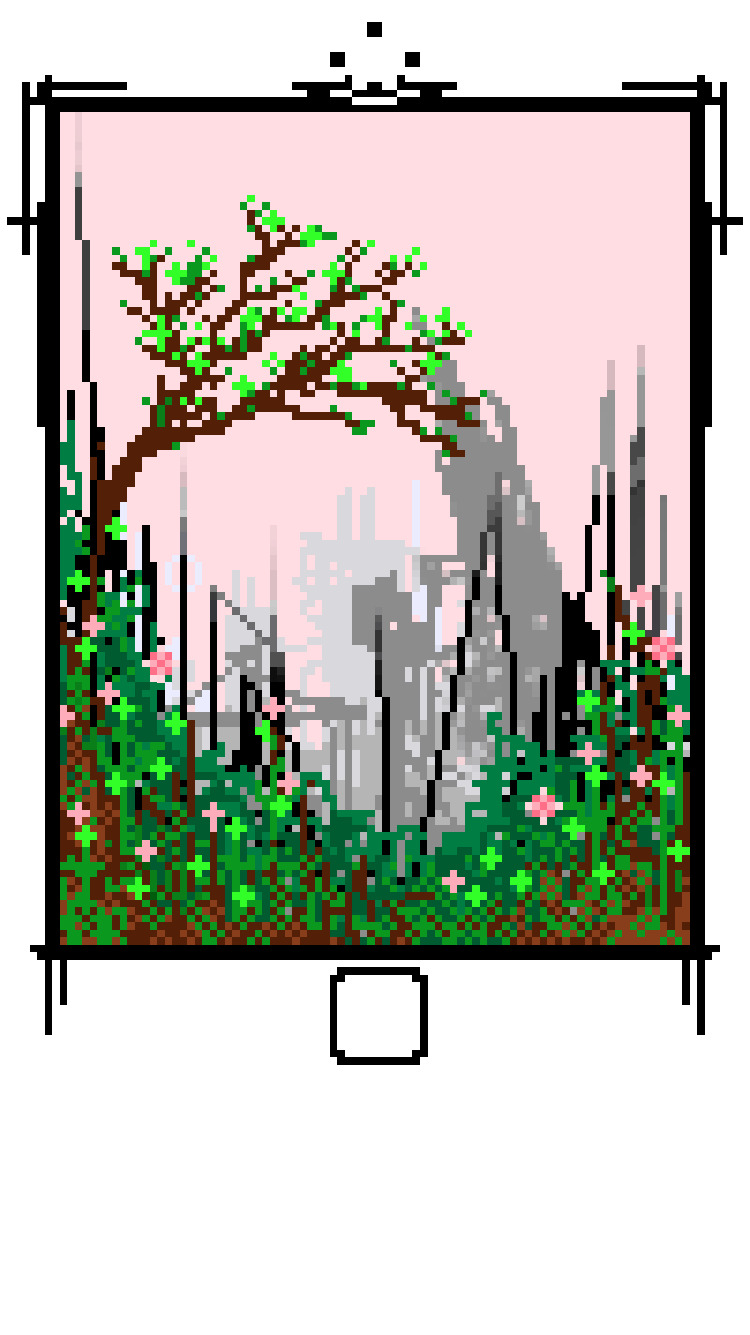
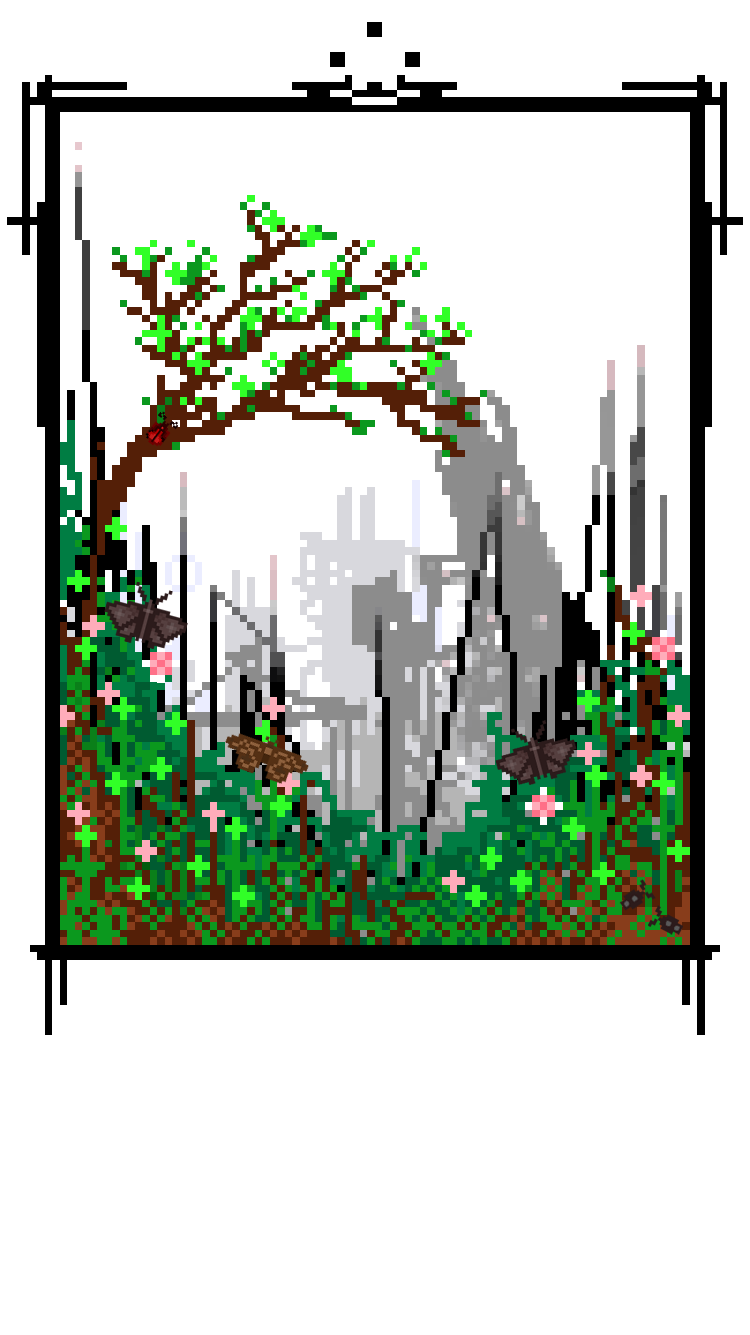
its readyyy

diff --git a/src/views/example.vue b/src/views/example.vue
@@ -32,22 +32,74 @@ export default {
     ville3.src = require("../assets/3_COLLAPSE.png");
 
     var ville4 = new Image();
-    ville4.src = require("../assets/4_CHAOS.png")
+    ville4.src = require("../assets/4_CHAOS.png");
+
+    var ville5 = new Image();
+    ville5.src = require("../assets/5_NOISE.png");
+
+    var ville6 = new Image();
+    ville6.src = require("../assets/6_SENTIER.png");
+
+    var ville7 = new Image();
+    ville7.src = require("../assets/7_RENAISSANCE.png");
+
+    var ville8 = new Image();
+    ville8.src = require("../assets/8_VIE.png");
+
+    var ville9 = new Image();
+    ville9.src = require("../assets/9_ESCARGOT.png");
+
+    var ville10 = new Image();
+    ville10.src = require("../assets/10_EVEIL.png");
+
+    var ville11 = new Image();
+    ville11.src = require("../assets/11_BOURGEON.png");
+
+    var ville12 = new Image();
+    ville12.src = require("../assets/12_DOUCEUR.png");
+
+    var ville13 = new Image();
+    ville13.src = require("../assets/13_pluie.gif");
 
     return {
       ville1: ville1,
       ville2: ville2,
       ville3:  ville3,
       ville4: ville4,
+      ville5: ville5,
+      ville6: ville6,
+      ville7: ville7,
+      ville8: ville8,
+      ville9: ville9,
+      ville10: ville10,
+      ville11: ville11,
+      ville12: ville12,
+      ville13: ville13,
       count: 0,// -1
       motList : [
-        "Incohérence",
-        "Deux mots",
-        "Trois mots",
+        "Evolution",
+        "Progress",
+        "Development",
+        "Noise",
+        "Chaos",
+        "Collapse",
+        "Griseville",
+        "Renaissance",
+        "Infected",
+        "Eveil",
+        "Awakening",
+        "首都",
+        "مدينة الأشباح",
+        "город",
+        "Plantae",
+        "Cells",
+        "Vegetal Apogy",
+        "Deforestation",
+
       ],
       mot: "Ruin",
-      image: ""
-    };
+      image: "",
+    }
   },
   mounted() {
     // this.tick(1)
@@ -66,13 +118,31 @@ export default {
         this.image = this.ville3.src;
       } else if (this.count < 308) {
         this.image = this.ville4.src;
+      } else if (this.count < 385 ) {
+        this.image = this.ville5.src;
+      } else if (this.count < 462) {
+        this.image = this.ville6.src
+      } else if (this.count < 539) {
+        this.image = this.ville7.src
+      } else if (this.count < 616) {
+        this.image = this.ville8.src
+      } else if (this.count < 693) {
+        this.image = this.ville9.src
+      } else if (this.count < 770) {
+        this.image = this.ville10.src
+      } else if (this.count < 847) {
+        this.image = this.ville11.src
+      } else if (this.count < 924) {
+        this.image = this.ville12.src
+      } else if (this.count < 1001) {
+        this.image = this.ville13.src
       }
       this.count += x;
       this.mot = this.motList[this.getRandomInt(this.motList.length)]
 
     }
   }
-};
+}
 </script>
 
 <style lang="css">
